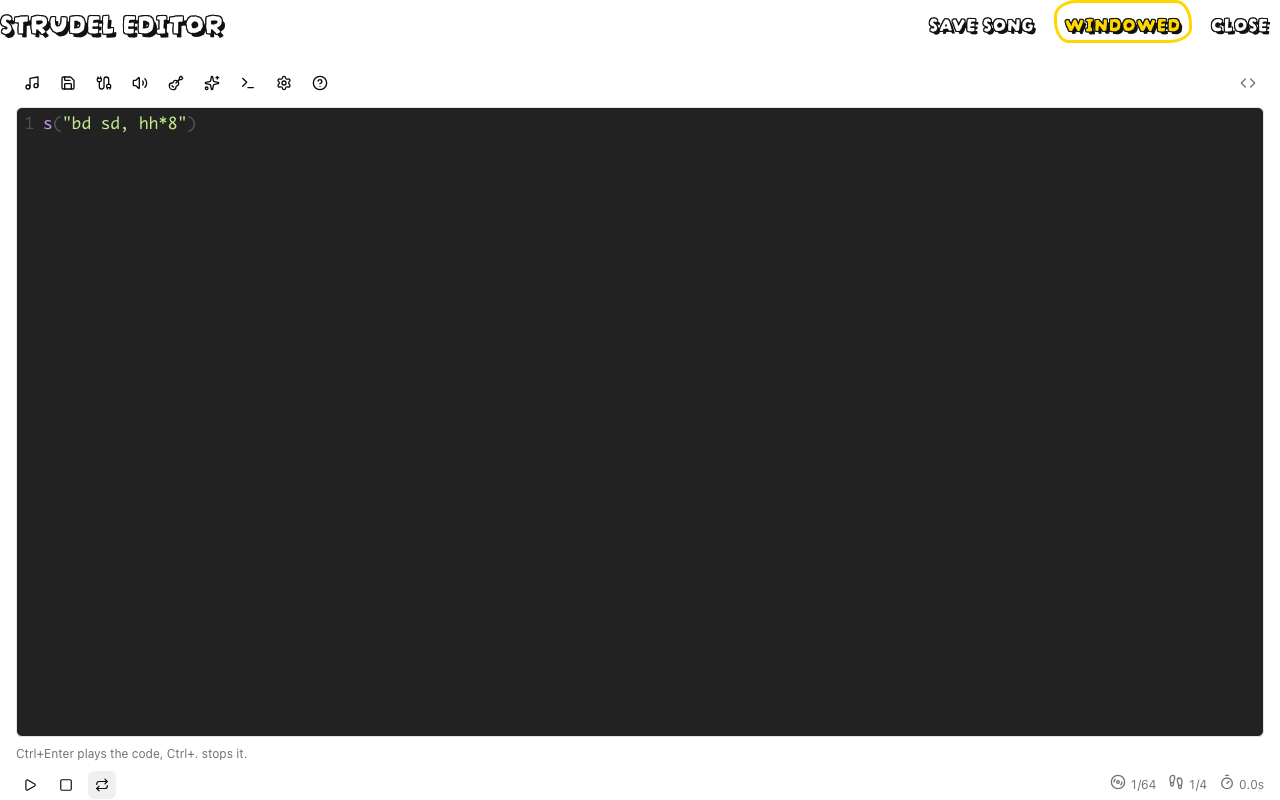
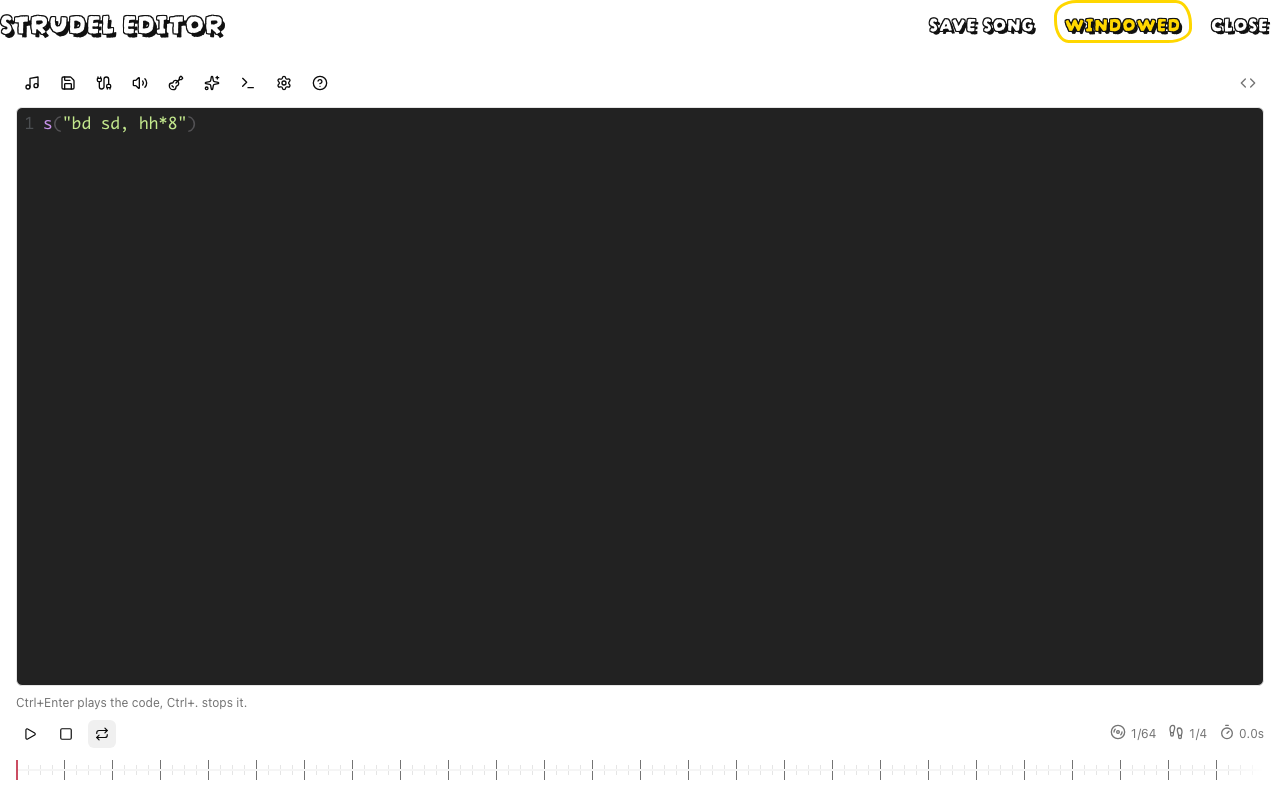
fix: size the Strudel editor to the box that holds it

Changed region(s): [[0.0, 0.8438, 1.0, 0.9688], [0.875, 0.9688, 0.9688, 1.0]]

diff --git a/src/views/Tools/StrudelEditor/StrudelEditor.vue b/src/views/Tools/StrudelEditor/StrudelEditor.vue
@@ -580,11 +580,12 @@ onBeforeUnmount(() => {
 <style scoped>
 /*
  * html and body never scroll in this app (src/style.css, for the full-screen 3D views), so
- * the view fills the viewport and each column scrolls on its own.
+ * the view fills the viewport and each column scrolls on its own. A host that embeds the
+ * editor in a smaller box (a dialog) sets --strudel-editor-height on any ancestor.
  */
 .strudel-editor {
   box-sizing: border-box;
-  height: 100dvh;
+  height: var(--strudel-editor-height, 100dvh);
   padding-inline: var(--spacing-4);
   padding-bottom: var(--spacing-4);
   display: grid;
